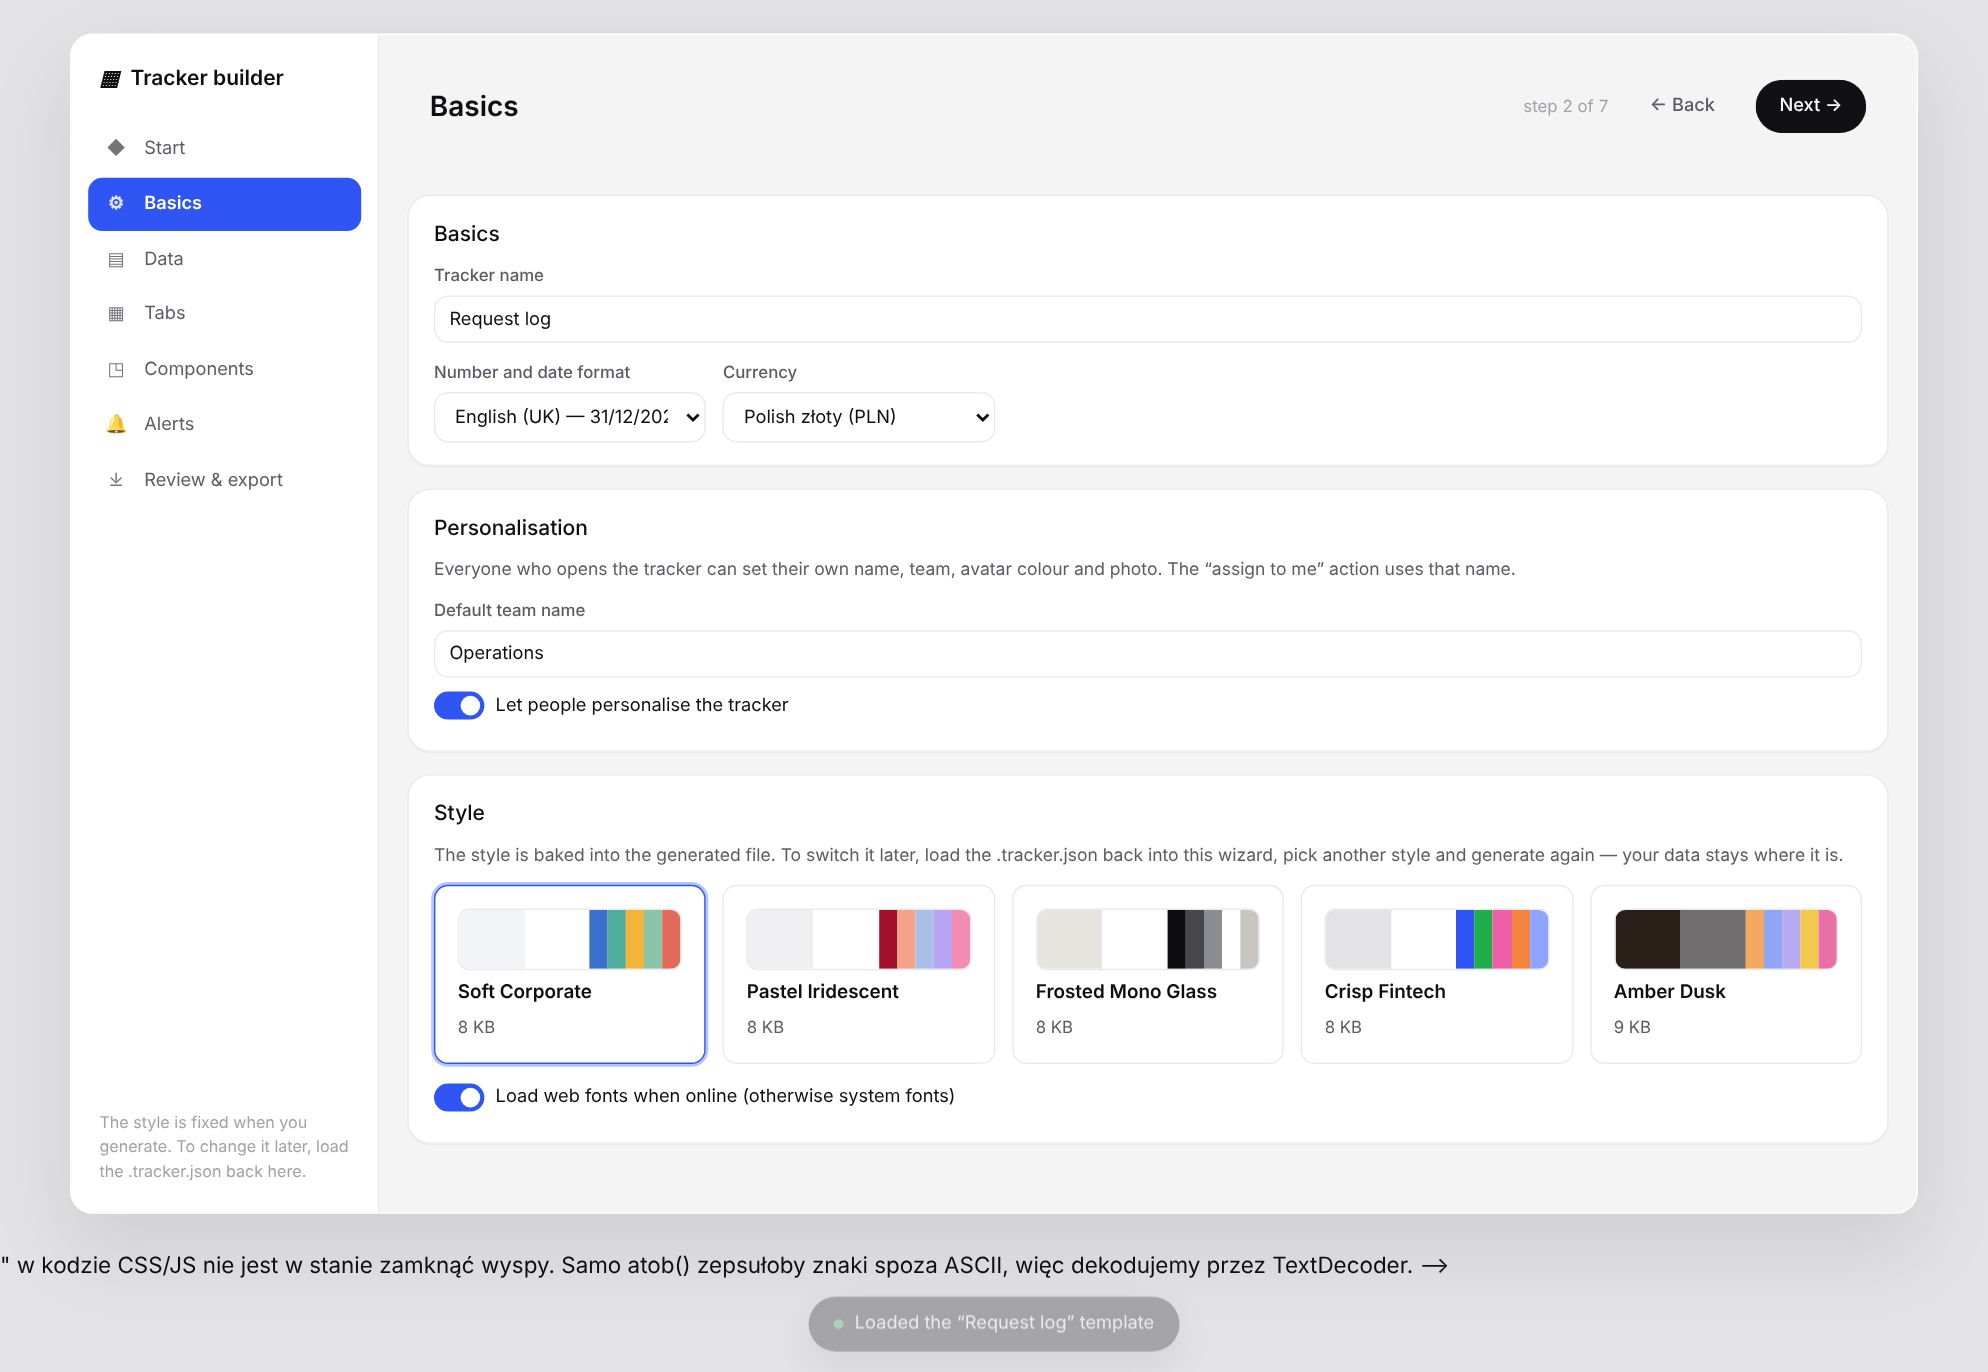
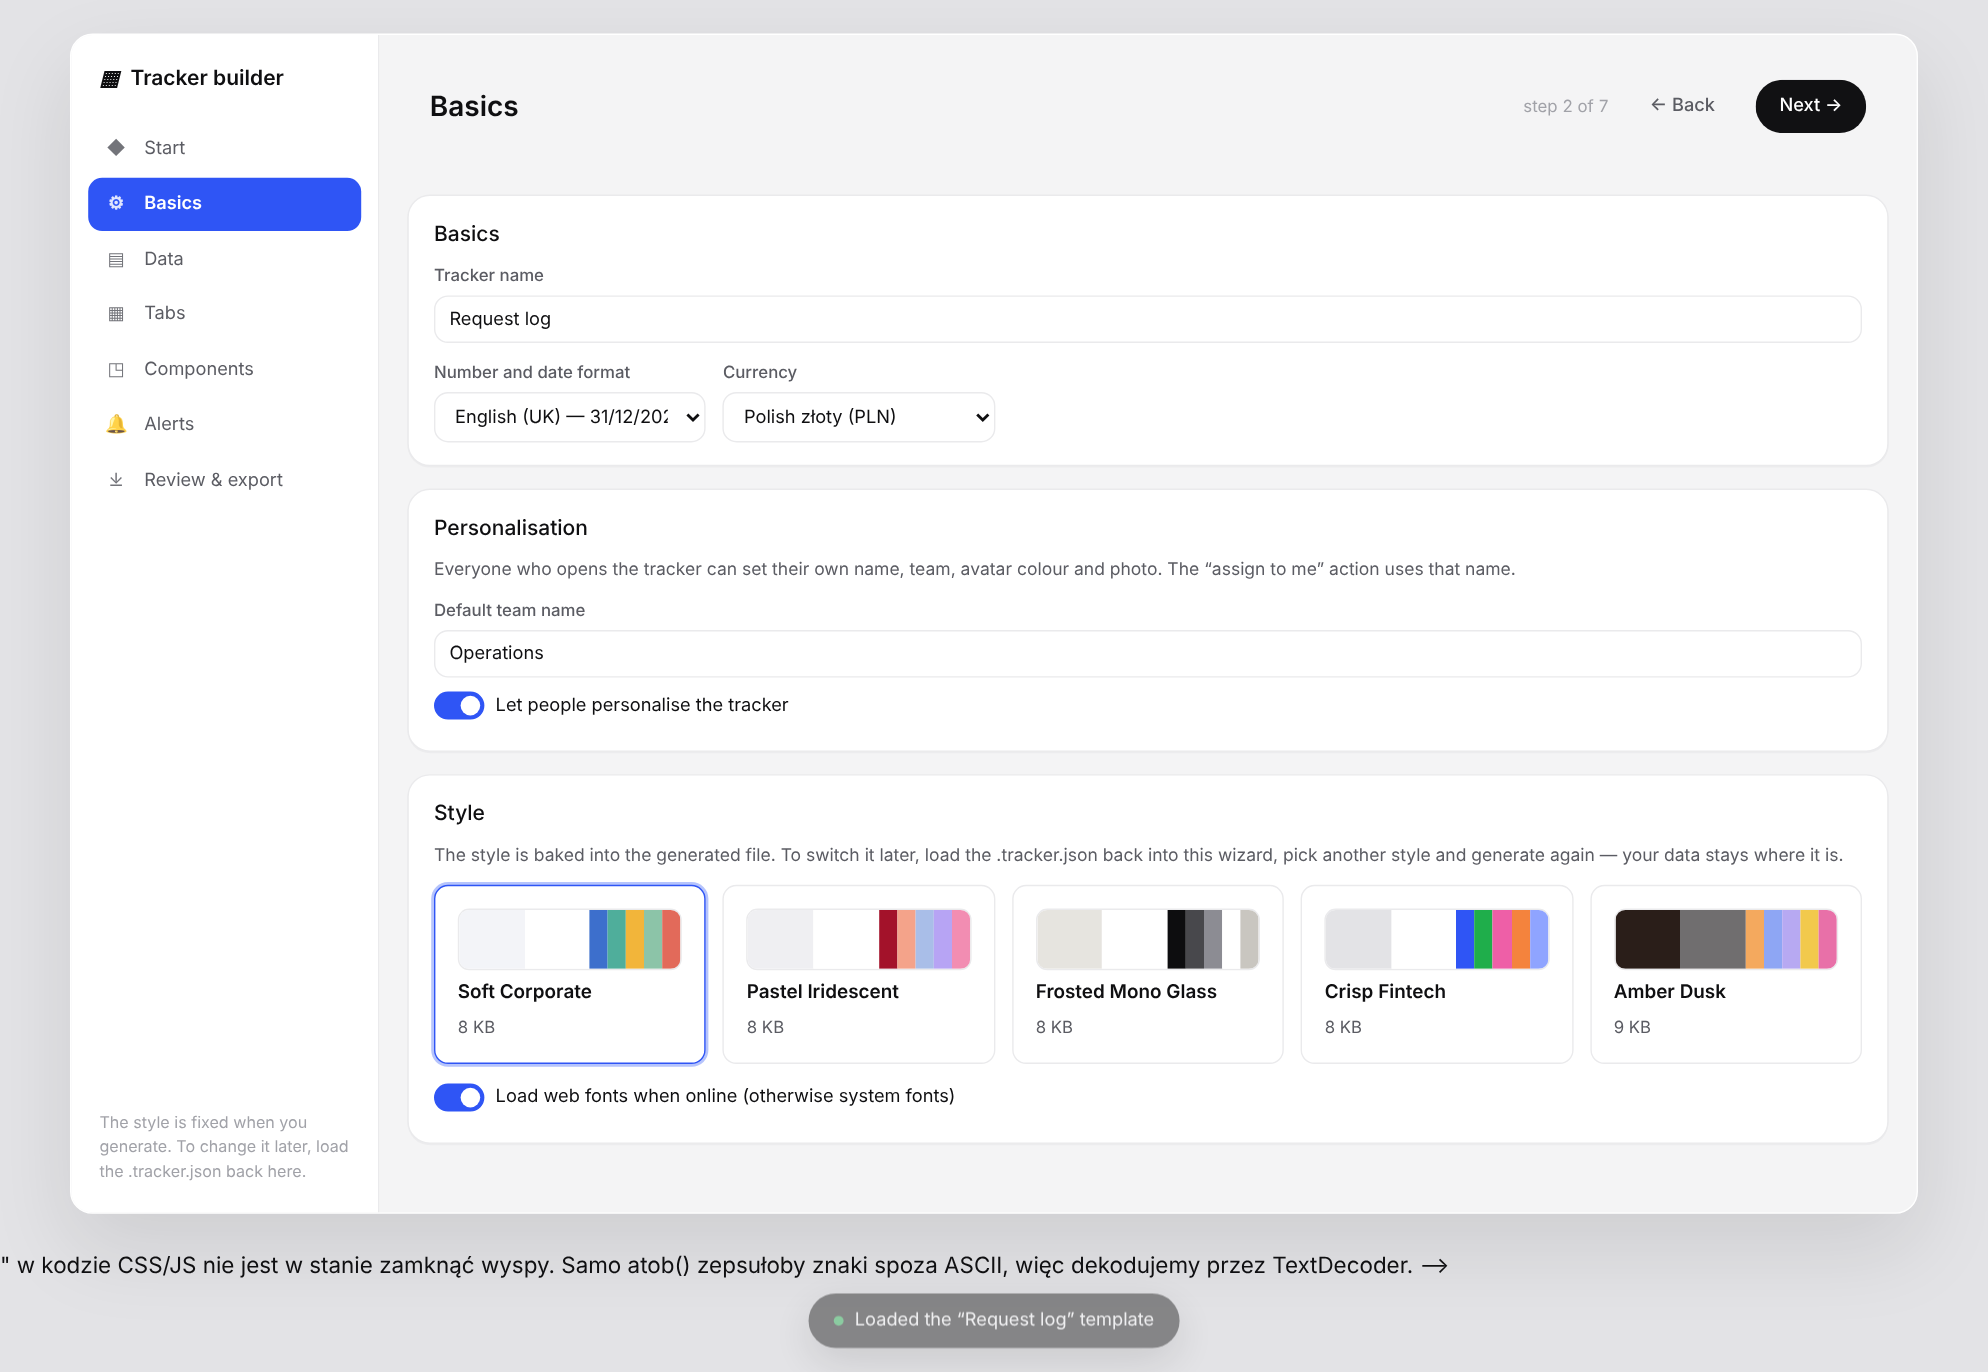
Dodaj HANDOFF i przenieś generator zrzutów do repo
HANDOFF.md zbiera to, co dotąd żyło tylko w rozmowie: stan, mapę plików,
komendy, niezmienniki (plik jako prawda, niezmienne id, escapowanie "<",
pułapka $& w replace, reset marginesów w motywach, --tb-solid, synchroniczny
rzut IndexedDB), decyzje zamknięte, otwarte pytanie o język komentarzy
i trzy rzeczy do sprawdzenia poza sesją.

shots.mjs leżał w katalogu tymczasowym, który nie przeżyje sesji — ląduje
w tracker/tools/.

Claude-Session: https://claude.ai/code/session_01Ps1utLZ6DoA94dx4KKUQeZ

Changed region(s): [[0.4054, 0.9184, 0.5926, 1.0]]

diff --git a/tracker/HANDOFF.md b/tracker/HANDOFF.md
@@ -1,0 +1,164 @@
+# Handoff — Tracker builder
+
+Written 2026-10-06. Read this plus `README-tracker.md` and you have the whole
+picture; nothing important lives only in the chat history.
+
+## What this is
+
+A wizard (`dist/tracker-wizard.html`) that people open in Chrome or Edge and use
+to assemble their own tracker — tabs, components, columns, alerts, style — with
+no code. It emits **one self-contained HTML file** that runs offline and writes
+its data to a `.json` file on the user's own disk. It is meant to replace the
+Excel sheets people keep for request logs, checklists, notes and deadlines.
+
+Tomasz's five styleguide HTMLs are the visual foundation. They sit untouched in
+`tracker/sources/` and the themes are generated from them.
+
+## Current state
+
+**Done and verified.** Branch `tracker-wizard`, head `18a4676`, pushed.
+**No pull request has been opened** — Tomasz has not asked for one.
+
+Build + 5 test parts: **151 assertions, zero console errors**, Chromium.
+
+```
+43 + 30 + 25 + 24 + 29 = 151
+```
+
+| | |
+|---|---|
+| emitted tracker | **164.5–165.8 KB** (one theme, no data) |
+| `dist/tracker-wizard.html` | ~405 KB |
+| themes | 5, 7.6–9.0 KB each |
+
+The size is worth stating plainly because the original plan promised 100–130 KB.
+The runtime came out ~35 KB bigger than estimated. Nothing is broken by it; the
+plan's number was simply wrong.
+
+## Build and test
+
+```bash
+python3 tracker/build-themes.py     # sources/*.html  -> themes/*.css + themes.json
+python3 tracker/build-wizard.py     # everything      -> dist/tracker-wizard.html
+sh tracker/tests/run-all.sh         # build + all 151 assertions (needs Chromium)
+node tracker/tests/e2e5.mjs         # one part on its own
+```
+
+Chromium is at `/opt/pw-browsers/chromium`; `PLAYWRIGHT_SKIP_BROWSER_DOWNLOAD=1`
+is already set in this environment. Never run `playwright install`.
+
+`dist/tracker-wizard.html` is a **build artifact**. It is committed, but editing
+it by hand is pointless — the next build overwrites it. Sources live in
+`tracker/`.
+
+## File map
+
+| file | ~size | what it is |
+|---|---|---|
+| `build-themes.py` | 13 KB | extracts the 5 themes from `sources/`, validates the 34-token contract, appends hand-written shell SKINS, resolves `var()` chains for the swatches |
+| `build-wizard.py` | 6.6 KB | assembles `dist/tracker-wizard.html`; base64 asset islands; build assertions |
+| `tools/strip.py` | — | string/regex-aware JS and CSS comment stripper |
+| `themes/*.css` + `themes.json` | 40 KB | **generated — never edit** |
+| `tracker.css` | 37 KB | the neutral `tb-*` layer; the only place layout lives |
+| `tb-charts.js` | 19 KB | SVG charts, port of `savance-charts.js`, palette on `--c1..--c5` |
+| `tb-ui.js` | 17 KB | tabs, modal, drawer, toast, dropzone, context menu |
+| `tb-xlsx.js` | 16 KB | real `.xlsx` writer, no libraries |
+| `tb-runtime.js` | 112 KB | the tracker engine — **the big one** |
+| `tracker-shell.html` | 1.5 KB | output template, 9 `<!--TB:*-->` markers |
+| `wizard-src.html` + `wizard.css` + `wizard.js` | 3.3 + 3.9 + 85 KB | the builder itself |
+| `tests/e2e*.mjs` + `run-all.sh` | — | 5 parts, 24 phases |
+| `sources/` | — | Tomasz's 6 uploaded files, md5-verified. **Read-only.** |
+
+`design-system/` is **not** touched. `savance.css` and `savance-charts.js` were
+sources for a port, not dependencies.
+
+## Test coverage, by phase
+
+```
+e2e.mjs   1 wizard · 2 script injection via tab name · 3 tracker on file:// · 4 reload persistence
+e2e2.mjs  5 context menu · 6 data file + save indicator · 7 conflict bar · 8 .xlsx via UI · 9 browser gate
+e2e3.mjs  10 setup · 11 typed export + multi-sheet · 12 rebuild keeps data
+          13 restoring a column restores its data · 14 all 5 themes · 15 style baked in, no switcher
+e2e4.mjs  16 paste Excel header · 17 paste Excel data · 18 search/quick filter/pagination · 19 note pinned to row
+e2e5.mjs  20 Request log template · 21 alerts · 22 profile + avatar · 23 profile photo · 24 number/date format picker
+```
+
+## Invariants — break these and things fail quietly
+
+1. **The `.data.json` file is the source of truth; IndexedDB is only a cache.**
+   Over `file://` browser storage is keyed to the **file path**, so renaming or
+   moving `tracker.html` would look exactly like losing everything.
+2. **Ids are immutable** (`ds_ c_ t_ k_ a_ al_ trk_`). Minted once, never derived
+   from a label, never regenerated, never reused. This is what makes rebuilding a
+   tracker non-destructive: a deleted column **hides** its data as an orphan and
+   the data comes back if a column with that id is re-added.
+3. **`JSON.stringify` does not escape `<`.** The config island escapes it to
+   `<` or a tab named `</script>` closes the island and injects script.
+   Test phase 2 guards this.
+4. **`String.replace` substitutes `$&` in the *replacement*.** Every asset
+   injection uses the **function form** — `.replace(marker, () => value)`. The
+   USD number format contains `$&` and was corrupted by the string form once
+   already.
+5. **Themes carry `* { margin: 0; padding: 0 }`.** That reset kills UA defaults,
+   which is why `.tb-modal` needs an explicit `margin: auto` (the modal rendered
+   in the top-left corner without it). Assume no UA default survives.
+6. **Anything that floats uses `--tb-solid`** — `linear-gradient(var(--surface),
+   var(--surface)), var(--page-bg)`. The glass themes are translucent, so without
+   it the context menu shows the table straight through itself.
+7. **Charts theme through `var()` in the `style` attribute**, never presentation
+   attributes and never `getComputedStyle`.
+8. **`safe(fn)`** wraps IndexedDB calls because `put()` throws **synchronously**
+   on a DataCloneError, so a bare `.catch` never attaches and the promise dies.
+9. **`requestPermission()` must be the first statement in a gesture handler** —
+   no `await` before it, or the user-gesture requirement is lost.
+10. **Watch for raw U+2028/U+2029** in written files. The Write tool decoded
+    ` ` into the literal separator twice and broke regex literals. A
+    project-wide scan currently shows zero; re-run it after bulk edits.
+
+## Decisions already settled — do not reopen
+
+- **Chrome and Edge only.** No Firefox or Safari fallback; the tracker shows a
+  full-screen notice instead of pretending to save.
+- **One style, baked in. No switcher.** Changing the style means loading the
+  `.tracker.json` back into the wizard and generating again.
+- **Wizard step 0 has two equal paths**: start new / from a template, **and**
+  upload a `.tracker.json`. The upload path is not a side link.
+- **Product UI is English**, with a locale picker (en-GB default, en-US, pl-PL)
+  driving all date and number formatting through `Intl`.
+- **Alerts are in-app only.** A closed HTML file has nothing running in the
+  background, so a desktop notification could only ever fire while the tracker is
+  already open.
+- Real `.xlsx` export, 4 scopes: selected rows / current view / whole dataset /
+  whole tracker (a sheet per dataset).
+- Import is CSV + paste from Excel (TSV). No `.xlsx` input.
+
+## Open items
+
+**One question for Tomasz, unanswered:**
+Code comments and commit messages are still **Polish** while the product UI is
+English. He said "wszystko ma być po angielsku" in the context of the product.
+If that was meant to cover the source too, it is one translation pass over
+`tb-runtime.js`, `wizard.js`, `tracker.css`, the Python builders and the test
+runner's console output (which is also Polish). Ask before doing it — it touches
+every file and the tests assert on some of that output.
+
+**Not built, and Tomasz knows:**
+- Tab presets exist only through the 3 starting templates; a new tab starts empty.
+- Tooltip, accordion, stepper and breadcrumbs have styles in `tracker.css` but no
+  component uses them and they are not in the wizard catalogue.
+- Skeleton is unused.
+- Month-grid calendar, calculated columns, OR filters, drag and drop, undo/redo
+  and `.xlsx` import are out of scope for this version.
+
+**Not verifiable in a headless session — Tomasz has to check these himself:**
+1. A real Ctrl+V of a range copied from Excel.
+2. Opening an exported `.xlsx` in real Excel (structure and types were verified
+   programmatically with `zipfile` + `ElementTree` + openpyxl round-trips, but
+   not Excel's own rendering).
+3. The full File System Access permission path across an actual browser restart.
+
+## Screenshots
+
+`shots/` holds 19 PNGs, regenerated after the modal fix. The generator is
+`tracker/tools/shots.mjs` (run it from the repo root with `node`); it was moved
+out of a scratch directory into the repo so it survives this session.
